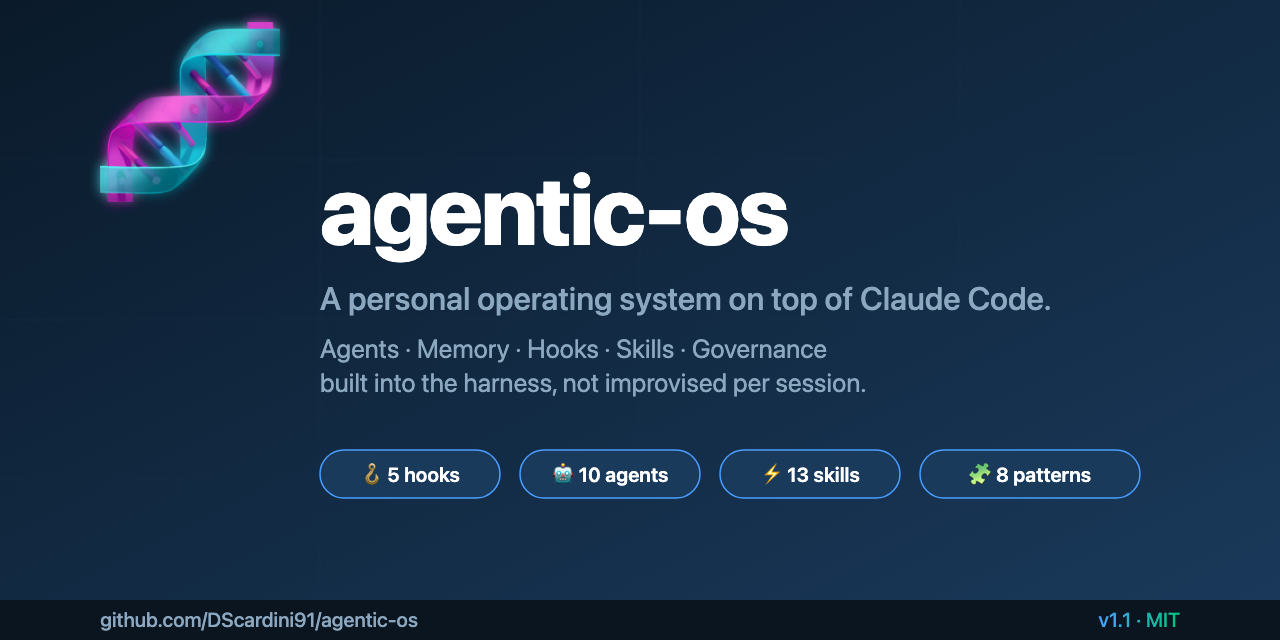
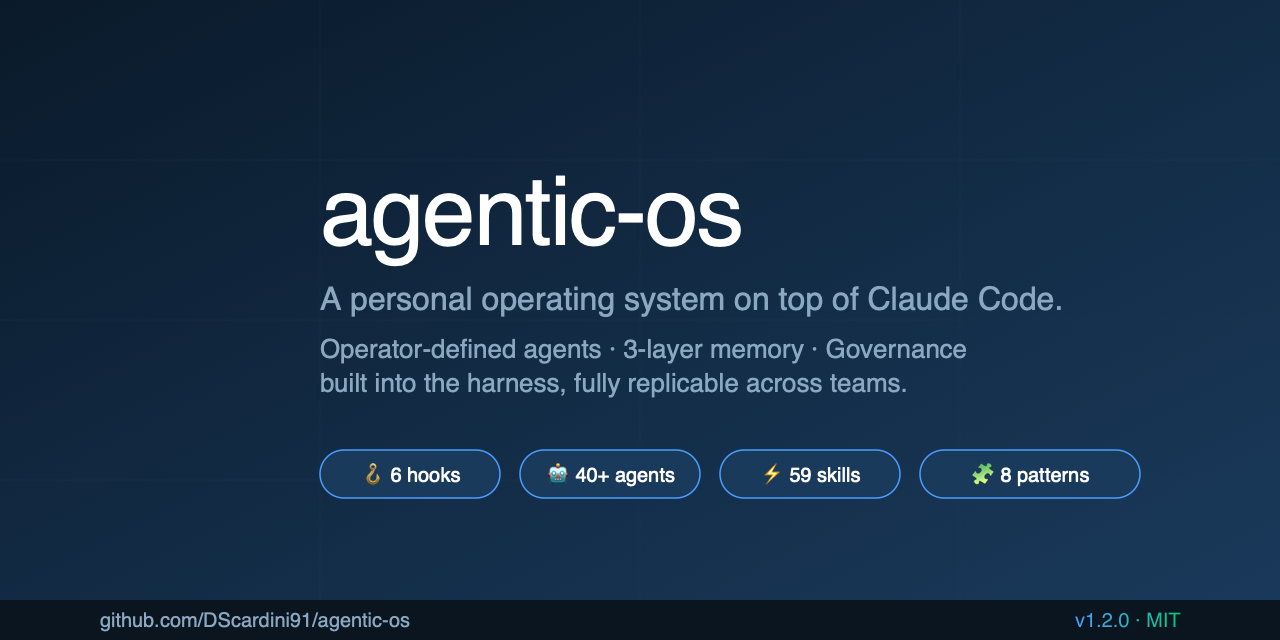
chore: version 1.2.1 - enhanced SessionStart/Stop hook lifecycle
- SessionStart: expanded from 6 to 10 hooks (added state-drift-check, canon-recheck-due, validate-harness, memory-ttl-compaction)
- Stop: expanded from 2 to 4 hooks (added state-drift-check, memory-ttl-compaction)
- All new hooks non-blocking with error suppression (2>/dev/null || true)
- Decision log D-008: governance record for hook expansion
- Social preview: v1.2.1 branding with enhanced hook metrics
- Full enforcement surface now ~20+ scripts across SessionStart/PreToolUse/Stop lifecycle

D-008: Version bump to v1.2.1: Enhanced SessionStart/Stop hook lifecycle

diff --git a/control-plane/memory/decisions/decision-log.md b/control-plane/memory/decisions/decision-log.md
@@ -29,3 +29,4 @@ Run `bash control-plane/scripts/decision-log-trailing.sh` to extract entries age
 | D-006 | 2026-06-27 | meta | Bootstrap Passo 1 genericized: agent names changed from hardcoded (Kowalski/Walter/Darwin) to operator-defined (Interface Agent/Senior Advisor/System Observer). Added "Nota sobre nomes" section explaining that names reflect operational accountability, not cosmetics; examples given (Jarvis, Kowalski, Walter, Darwin) demonstrate meaningful naming patterns. Maintains full replicability and operator agency. Walter pressure-test approved (2026-06-27); ready for team distribution. | yes | SKILL.md (Passo 1, lines 34–78) |
 | D-007 | 2026-06-27 | meta | Version bump to v1.2.0: Passo 1 genericization now production-ready. Bootstrap methodology fully operator-centric (agent names defined by operator, meaningful examples guide naming without prescription). Supports full replicability across teams. Ready for distribution. All governance checkpoints passed (D-006 Walter approval + D-004 methodology). | yes | agentic-os-v1.2.0.zip |
 | D-005 | _(fill after first bootstrap)_ | meta | OS bootstrap complete — operator interviewed, identity/voice/agents resolved | _pending_ | this file |
+| D-008 | 2026-06-27 | meta | Version bump to v1.2.1: Enhanced SessionStart/Stop hook lifecycle — state-drift-check, memory-ttl-compaction, canon-recheck-due, validate-harness integrated into harness initialization/cleanup. SessionStart hooks expanded from 6 to 10; Stop hooks expanded from 2 to 4. All new hooks non-blocking (error suppression via `2>/dev/null \|\| true`), fully idempotent, safe for repeated invocation. Total enforcement surface across lifecycle: 20+ scripts. Supports operator-defined agents, 3-layer memory, and governance via decision-log. Ready for distribution. | yes | agentic-os-v1.2.1.zip |
